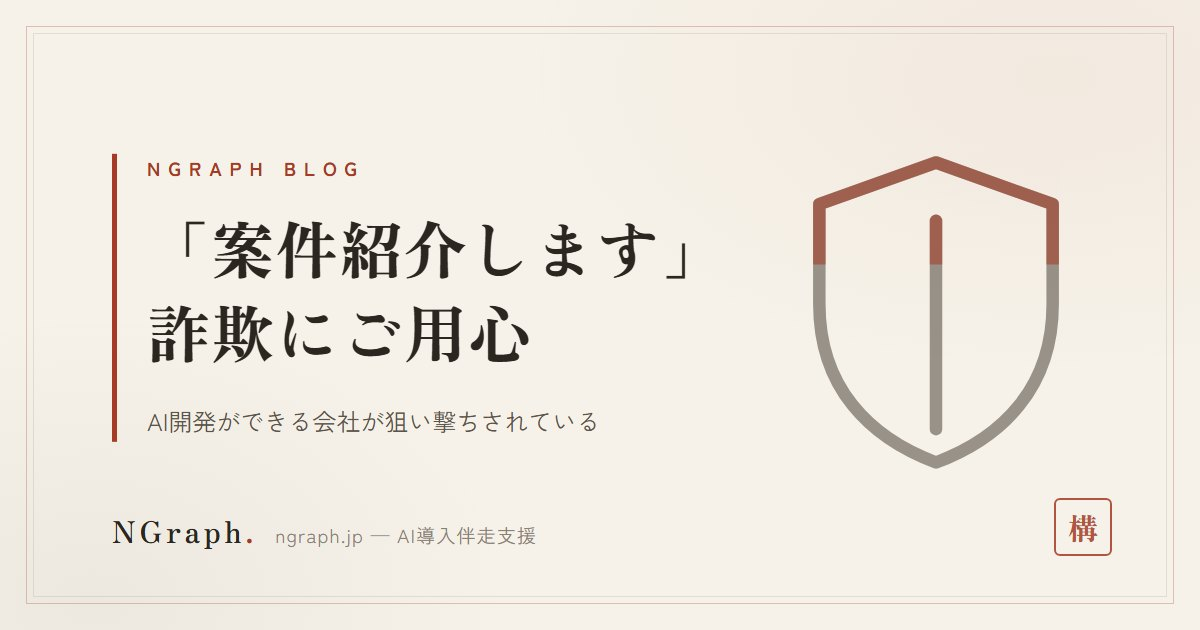
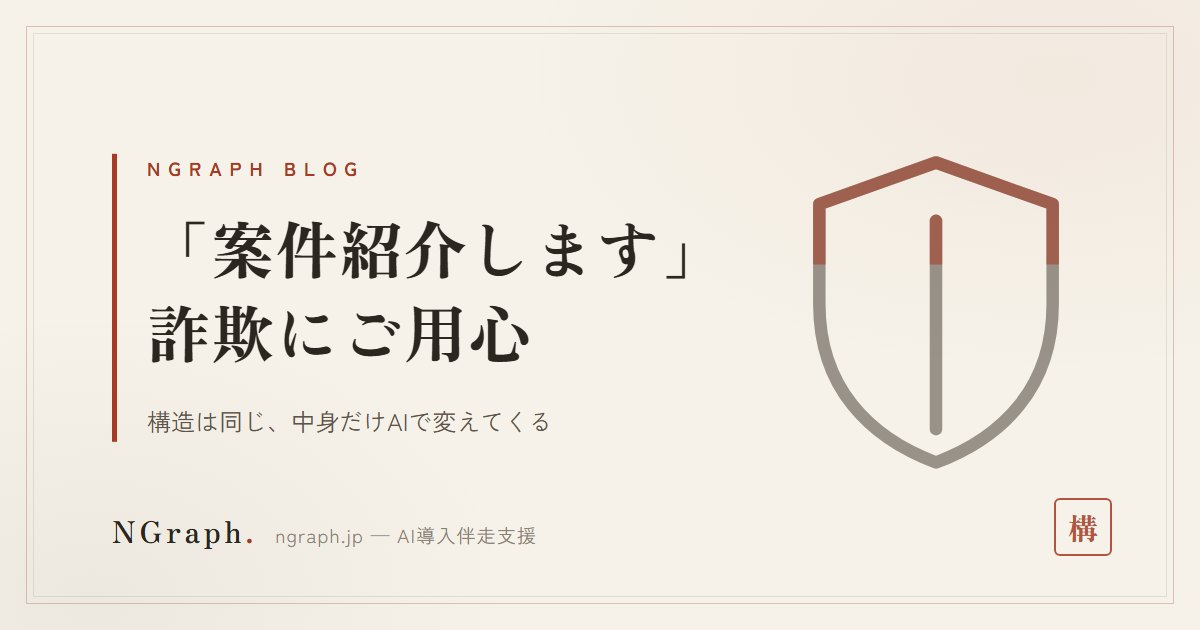
注意喚起記事: 改題（後半を「構造は同じ、中身だけAIで変えてくる」へ）＋表紙作り直し＋一覧カード復元

Changed region(s): [[0.1233, 0.6333, 0.4933, 0.6937]]

diff --git a/blog/20260813-anken-shokai-eigyo.html b/blog/20260813-anken-shokai-eigyo.html
@@ -10,9 +10,9 @@
   gtag('js', new Date());
   gtag('config', 'G-L96HMXRK1D');
 </script>
-<title>AI導入支援の会社を狙う「案件を紹介します」詐欺にご用心——同じ形の営業が2社から来た | NGraphブログ</title>
+<title>AI導入支援の会社を狙う「案件を紹介します」詐欺にご用心——構造は同じ、中身だけAIで変えてくる | NGraphブログ</title>
 <meta name="description" content="「AI開発ができる会社を紹介します」という営業を、同じ月に2社から受けました。テレアポから電子契約まで手口の順序が同じで、料金もサイトの作りも揃っていた。公開情報だけで実測した結果と、相手を見分けずに済む4つの契約条件をまとめます。">
-<meta property="og:title" content="AI導入支援の会社を狙う「案件を紹介します」詐欺にご用心——同じ形の営業が2社から来た | NGraphブログ">
+<meta property="og:title" content="AI導入支援の会社を狙う「案件を紹介します」詐欺にご用心——構造は同じ、中身だけAIで変えてくる | NGraphブログ">
 <meta property="og:description" content="テレアポから電子契約まで手口の順序が同じ2社を、公開情報だけで実測。判定を不要にする4つの契約条件をまとめます。">
 <meta property="og:type" content="article">
 <meta property="og:url" content="https://ngraph.jp/blog/20260813-anken-shokai-eigyo">
@@ -33,7 +33,7 @@
 {
   "@context": "https://schema.org",
   "@type": "Article",
-  "headline": "AI導入支援の会社を狙う「案件を紹介します」詐欺にご用心——同じ形の営業が2社から来た",
+  "headline": "AI導入支援の会社を狙う「案件を紹介します」詐欺にご用心——構造は同じ、中身だけAIで変えてくる",
   "image": "https://ngraph.jp/assets/blog/20260813-anken-shokai-eigyo.jpg",
   "description": "「AI開発ができる会社を紹介します」という営業を、同じ月に2社から受けました。テレアポから電子契約まで手口の順序が同じで、料金もサイトの作りも揃っていた。公開情報だけで実測した結果と、相手を見分けずに済む4つの契約条件をまとめます。",
   "datePublished": "2026-08-13",
@@ -117,9 +117,9 @@
 
 <article class="article-wrap">
   <div class="a-label">Blog</div>
-  <h1>AI導入支援の会社を狙う「案件を紹介します」詐欺にご用心——同じ形の営業が2社から来た</h1>
+  <h1>AI導入支援の会社を狙う「案件を紹介します」詐欺にご用心——構造は同じ、中身だけAIで変えてくる</h1>
   <span class="a-date">2026.08.13 夕 ｜ 株式会社NGraph</span>
-  <img class="a-eyecatch" src="/assets/blog/20260813-anken-shokai-eigyo.jpg" alt="AI導入支援の会社を狙う「案件を紹介します」詐欺にご用心——同じ形の営業が2社から来た">
+  <img class="a-eyecatch" src="/assets/blog/20260813-anken-shokai-eigyo.jpg" alt="AI導入支援の会社を狙う「案件を紹介します」詐欺にご用心——構造は同じ、中身だけAIで変えてくる">
 
 <p>弊社は生成AIの導入支援をしています。そのため「AI開発ができる会社を探している企業を紹介します」という営業の電話が、ときどきかかってきます。この夏、<strong>同じ形の営業を、別々の会社から続けて受けました</strong>。テレアポから電子契約まで、手口の順序まで同じでした。</p>
 <p>あまりに構造が似ていたので、公開されている情報だけで確かめました。特定の企業を非難する目的の記事ではありません。同じ営業を受ける可能性のある会社に向けて、判断に使える材料と、<strong>相手を見分けようとせずに済む守り方</strong>を書きます。</p>

diff --git a/blog/index.html b/blog/index.html
@@ -61,6 +61,13 @@
     </div>
     <div class="blog-list">
       <div class="card blog-card">
+        <span class="b-date">2026.08.13 夕</span>
+        <a href="/blog/20260813-anken-shokai-eigyo" class="b-thumb"><img src="/assets/blog/20260813-anken-shokai-eigyo.jpg" alt="" loading="lazy"></a>
+        <h3><a href="/blog/20260813-anken-shokai-eigyo">AI導入支援の会社を狙う「案件を紹介します」詐欺にご用心——構造は同じ、中身だけAIで変えてくる</a></h3>
+        <p>テレアポ、面談でまず自社紹介をさせる、そのあと話に合った案件概要をチャットで送る、月5万円の一括先払い、電子契約で締結。手口の順序まで同じ営業を、同じ月に2社から受けました。公開情報だけで実測した結果と、相手を見分けずに済む4つの契約条件をまとめます。</p>
+        <a href="/blog/20260813-anken-shokai-eigyo" class="b-more">読む →</a>
+      </div>
+      <div class="card blog-card">
         <span class="b-date">2026.08.13 朝</span>
         <a href="/blog/20260813-nise-ai-bot" class="b-thumb"><img src="/assets/blog/20260813-nise-ai-bot.jpg" alt="" loading="lazy"></a>
         <h3><a href="/blog/20260813-nise-ai-bot">AIボットを名乗る偽アクセスが/.envを探している——robots.txtが防御にならない理由と5分の確認</a></h3>
